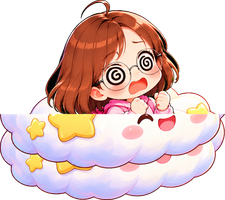
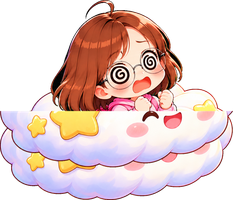
은유 v3 스카이훅 그림 1:1:1 비율로 다시 받은 것 적용, 시트 안 컷은 같은 배율로 맞춤, 기준 그림은 시트에서 제외

diff --git a/common/charv2.js b/common/charv2.js
@@ -14,8 +14,8 @@
   function load(look) {
     if (!LOOKS[look] || atlas[look]) return;
     const a = atlas[look] = { img: new Image(), f: null, ok: false };
-    fetch(`${base}common/chars/${look}.json?v=202610240817`).then((r) => r.json()).then((j) => {
-      a.f = j.frames; a.img.onload = () => { a.ok = true; }; a.img.src = `${base}common/chars/${look}.webp?v=202610240817`;
+    fetch(`${base}common/chars/${look}.json?v=202610240856`).then((r) => r.json()).then((j) => {
+      a.f = j.frames; a.img.onload = () => { a.ok = true; }; a.img.src = `${base}common/chars/${look}.webp?v=202610240856`;
     }).catch(() => { /* 그림이 없으면 기본 그림으로 */ });
   }
   const get = (look, name) => { const a = atlas[look]; return a && a.ok && a.f[name] ? [a, a.f[name]] : null; };

diff --git a/common/chars/looks.js b/common/chars/looks.js
@@ -7,7 +7,7 @@ window.CHAR_LOOKS = [
   { look: 'eungyeol', name: '은결 스타일', base: 'eungyeol', atlas: false, dress: true },
   { look: 'eunyu2', name: '은유 v2', base: 'eunyu', atlas: true, dress: false, isNew: true },
   { look: 'eungyeol2', name: '은결 v2', base: 'eungyeol', atlas: true, dress: false, isNew: true },
-  { look: 'eunyu3', name: '은유 v3', base: 'eunyu', atlas: true, dress: false, isNew: true },
   { look: 'eungyeol3', name: '은결 v3', base: 'eungyeol', atlas: true, dress: false, isNew: true },
+  { look: 'eunyu3', name: '은유 v3', base: 'eunyu', atlas: true, dress: false, isNew: true },
   // @@NEW_LOOKS@@ (이 줄 위에 새 캐릭터가 추가돼요)
 ];

diff --git a/skyhook/index.html b/skyhook/index.html
@@ -113,9 +113,9 @@
 
   <div id="rotateHint" class="hidden">가로로 돌리면 더 크게 볼 수 있어요 ↻</div>
 </div>
-<script src="../common/chars/looks.js?v=202610240817"></script>
+<script src="../common/chars/looks.js?v=202610240856"></script>
 <script src="../common/profile.js?v=20261023k"></script>
-<script src="../common/charv2.js?v=202610240817"></script>
+<script src="../common/charv2.js?v=202610240856"></script>
 <script src="../common/costume.js?v=20261023k"></script>
 <script src="../common/skins.js?v=20261023k"></script>
 <script src="game.js?v=20261024c"></script>

diff --git a/helicopter/index.html b/helicopter/index.html
@@ -91,9 +91,9 @@
 
   <div id="rotateHint" class="hidden">가로로 돌리면 더 크게 볼 수 있어요 ↻</div>
 </div>
-<script src="../common/chars/looks.js?v=202610240817"></script>
+<script src="../common/chars/looks.js?v=202610240856"></script>
 <script src="../common/profile.js?v=20261023k"></script>
-<script src="../common/charv2.js?v=202610240817"></script>
+<script src="../common/charv2.js?v=202610240856"></script>
 <script src="../common/costume.js?v=20261023k"></script>
 <script src="../common/skins.js?v=20261023k"></script>
 <script src="game.js?v=20261023k"></script>

diff --git a/stairs/index.html b/stairs/index.html
@@ -95,9 +95,9 @@
 
   <div id="rotateHint" class="hidden">📱 세로로 세워서 하면 더 크게 보여요</div>
 </div>
-<script src="../common/chars/looks.js?v=202610240817"></script>
+<script src="../common/chars/looks.js?v=202610240856"></script>
 <script src="../common/profile.js?v=20261023k"></script>
-<script src="../common/charv2.js?v=202610240817"></script>
+<script src="../common/charv2.js?v=202610240856"></script>
 <script src="../common/costume.js?v=20261023k"></script>
 <script src="../common/skins.js?v=20261023k"></script>
 <script src="game.js?v=20261024c"></script>

diff --git a/shisen/index.html b/shisen/index.html
@@ -88,10 +88,10 @@
 
   <div id="toast" class="toast hidden"></div>
 </div>
-<script src="../common/chars/looks.js?v=202610240817"></script>
+<script src="../common/chars/looks.js?v=202610240856"></script>
 <script src="../common/profile.js?v=20261023k"></script>
 <script src="../common/skins.js?v=20261023k"></script>
-<script src="../common/charv2.js?v=202610240817"></script>
+<script src="../common/charv2.js?v=202610240856"></script>
 <script src="../common/costume.js?v=20261023k"></script>
 <script src="game.js?v=20261024c"></script>
 </body>

diff --git a/downhill/index.html b/downhill/index.html
@@ -87,9 +87,9 @@
     </div>
   </div>
 </div>
-<script src="../common/chars/looks.js?v=202610240817"></script>
+<script src="../common/chars/looks.js?v=202610240856"></script>
 <script src="../common/profile.js?v=20261023k"></script>
-<script src="../common/charv2.js?v=202610240817"></script>
+<script src="../common/charv2.js?v=202610240856"></script>
 <script src="../common/costume.js?v=20261023k"></script>
 <script src="../common/skins.js?v=20261023k"></script>
 <script src="game.js?v=20261023b"></script>

diff --git a/index.html b/index.html
@@ -171,9 +171,9 @@
     <button id="tsStart" class="ts-start"><span class="ts-tri"></span>START</button>
   </div>
 
-<script src="common/chars/looks.js?v=202610240817"></script>
+<script src="common/chars/looks.js?v=202610240856"></script>
 <script src="common/profile.js?v=20261023r"></script>
-<script src="common/charv2.js?v=202610240817"></script>
+<script src="common/charv2.js?v=202610240856"></script>
 <script src="hub/hub.js?v=20261024c"></script>
 </body>
 </html>

diff --git a/shop/index.html b/shop/index.html
@@ -130,7 +130,7 @@
 </div>
 <div id="toast" class="toast hidden"></div>
 
-<script src="../common/chars/looks.js?v=202610240817"></script>
+<script src="../common/chars/looks.js?v=202610240856"></script>
 <script src="../common/profile.js?v=20261023k"></script>
 <script src="shop.js?v=20261023k"></script>
 </body>

diff --git a/tools/char_pipeline.py b/tools/char_pipeline.py
@@ -96,7 +96,7 @@ def place(im, s, src, dst, size):
 STAND_H = 393   # 서 있는 키 (512 캔버스) — 쌍둥이 키를 똑같이 맞춤
 FACE_REF = 190  # 얼굴·타일·탈것 크기 기준: 은결 v3 의 머리 폭(서 있는 키 393일 때). 머리카락이 넓은 캐릭터는 그만큼 크게
 
-def normalize(im, pose, size, scale_hint=None, std=210):
+def normalize(im, pose, size, scale_hint=None, std=210, sheet_s=None):
     """규격 캔버스에 맞추기: std = 이 캐릭터가 서 있는 키 393일 때의 머리 폭 (머리 폭 대신 키로 쌍둥이 크기를 맞춤)"""
     k = kind(pose); b = bbox(im); cx = (b[0] + b[2]) / 2
     hw = head_width(im); f = std / FACE_REF
@@ -112,9 +112,10 @@ def normalize(im, pose, size, scale_hint=None, std=210):
         s = 250 * f / hw; return place(im, s, (cx, b[3]), (512, 370), size), s
     s = std / hw
     if scale_hint and (k == 'lying' or abs(s / scale_hint - 1) > 0.35): s = scale_hint  # 누운 자세 등은 다른 포즈 크기로
+    if sheet_s: s = sheet_s  # 시트 그림: 같은 시트 컷은 모두 같은 배율
     if k == 'hang':
         # 팔 든 매달리기: 손끝~발 길이가 서 있는 키의 1.05배를 넘지 않게 (넘으면 줄 잡을 때 키가 커 보임)
-        s = min(s, STAND_H * 1.05 / (b[3] - b[1]))
+        s = min(s, STAND_H * 1.12 / (b[3] - b[1]))
         top = np.array(im)[b[1]:b[1] + 12, :, 3] > 60; xs = np.where(top.any(0))[0]
         hx = xs.mean() if len(xs) else cx
         return place(im, s, (hx, b[1]), (256, 40), size), s
@@ -216,9 +217,20 @@ def cmd_import(eid, cname, src, refdir=None):
     # 몸 그림 크기를 맞추려고 서 있는 포즈의 배율을 먼저 구함
     scales = []
     std = 210
+    # GPT는 한 시트 안의 컷을 같은 크기로 그림 → 시트마다 배율 하나 (머리 폭은 팔이 섞이면 커지니 시트에서 가장 작은 값)
+    sheet_of = {}
+    for one in src.split(','):
+        sp = os.path.join(one, 'sheet.json')
+        if os.path.isdir(one) and os.path.exists(sp): sheet_of.update(json.load(open(sp)))
+    sheet_hw = {}
+    for p, sid in sheet_of.items():
+        if p in files and kind(p) in ('ground', 'hang', 'lying'):
+            im_, _ = main_part(remove_bg(Image.open(files[p]))); sheet_hw.setdefault(sid, []).append(head_width(im_))
+    sheet_hw = {k: min(v) for k, v in sheet_hw.items()}
     if files.get('idle_0'):  # 서 있는 그림의 키가 STAND_H 가 되는 머리 폭 = 이 캐릭터의 기준 머리 폭
         i0, _ = main_part(remove_bg(Image.open(files['idle_0']))); b0 = bbox(i0)
-        std = head_width(i0) * STAND_H / (b0[3] - b0[1]); print(f"  기준 머리 폭 {std:.0f} (얼굴 배율 {std / FACE_REF:.2f})")
+        hw0 = sheet_hw.get(sheet_of.get('idle_0'), head_width(i0))
+        std = hw0 * STAND_H / (b0[3] - b0[1]); print(f"  기준 머리 폭 {std:.0f} (얼굴 배율 {std / FACE_REF:.2f})")
     order = sorted(M, key=lambda m: kind(m['pose']) == 'lying')
     for m in order:
         p = m['pose']; f = files.get(p)
@@ -233,7 +245,7 @@ def cmd_import(eid, cname, src, refdir=None):
         if bad:
             report.append(f'{m["no"]:>2}. {p}: ✕ ' + ' / '.join(bad + warn)); redo.append((m, bad + warn)); continue
         hint = float(np.median(scales)) if scales else None
-        fixed, s = normalize(im, p, (m['w'], m['h']), hint, std)
+        fixed, s = normalize(im, p, (m['w'], m['h']), hint, std, std / sheet_hw[sheet_of[p]] if sheet_of.get(p) in sheet_hw and kind(p) in ('ground', 'hang', 'lying') else None)
         if kind(p) == 'ground': scales.append(s)
         fixed.save(f'{base}/{eid}_base_{p}.png', optimize=True); done[p] = True
         report.append(f'{m["no"]:>2}. {p}: ○' + (' (확인 필요: ' + ' / '.join(warn) + ')' if warn else ''))
@@ -392,7 +404,8 @@ def shape_ok(sid, parts):
 
 def cmd_sheets(eid, cname, folder, refdir=None):
     """folder 안의 시트 그림(저장한 순서 = S01~S14)을 잘라 import 까지"""
-    imgs = sorted([f for f in glob.glob(f'{folder}/*') if re.search(r'\.(png|jpe?g|webp)$', f, re.I)], key=lambda f: (os.path.getmtime(f), f))
+    imgs = sorted([f for f in glob.glob(f'{folder}/*') if re.search(r'\.(png|jpe?g|webp)$', f, re.I)
+                   and not re.search(r'비율|기준|레퍼런스', os.path.basename(f))], key=lambda f: (os.path.getmtime(f), f))  # 기준 그림은 시트가 아님
     named = {}
     for f in imgs:  # 파일 이름에 S01 같은 번호가 있으면 그걸 씀
         mm = re.search(r'S(\d{2})', os.path.basename(f), re.I)
@@ -410,7 +423,7 @@ def cmd_sheets(eid, cname, folder, refdir=None):
     rest = rest[:len(SHEETS) - len(named)]
     redo_f = {sid: f'{folder}/{b}' for sid, b in redo_map.items() if os.path.exists(f'{folder}/{b}')}
     out = f'{ROOT}/character/{eid}_v4/cut'; os.makedirs(out, exist_ok=True)
-    log = []; check = []
+    log = []; check = []; sheet_of = {}
     for sid, title, names, rows in SHEETS:
         f = named.get(sid) or (rest.pop(0) if rest else None)
         f = redo_f.get(sid, f)  # 다시 받은 그림이 있으면 그걸 씀 (원래 순서 자리는 그대로 넘김)
@@ -418,6 +431,7 @@ def cmd_sheets(eid, cname, folder, refdir=None):
         parts, err = split_sheet(f, names, rows)  # 저장한 순서를 그대로 믿음 (다른 시트를 끌어오지 않음)
         if err: log.append(f'{sid} {title}: ✕ {err} ({os.path.basename(f)})'); continue
         for nm, im in parts.items(): im.save(f'{out}/{eid}_base_{nm}.png')
+        sheet_of.update({nm: sid for nm in parts})
         check.append((sid, title, f))
         log.append(f'{sid} {title}: ○ {len(parts)}장 잘라냄 ({os.path.basename(f)})')
     # 구름 앞부분: 구름 몸체 아래쪽 45%를 잘라 캐릭터 앞에 겹침
@@ -426,6 +440,7 @@ def cmd_sheets(eid, cname, folder, refdir=None):
         c = Image.open(cb).convert('RGBA'); a = np.array(c); b = bbox(c)
         a[:b[1] + int((b[3] - b[1]) * 0.55), :, 3] = 0; Image.fromarray(a).save(f'{out}/{eid}_base_ride_cloud_front.png')
     json.dump(split_sheet.touch, open(f'{out}/touch.json', 'w'))
+    json.dump(sheet_of, open(f'{out}/sheet.json', 'w'))  # 같은 시트 컷은 같은 배율로 맞추려고
     open(f'{ROOT}/character/{eid}_v4/시트자르기.txt', 'w', encoding='utf-8').write('\n'.join(log))
     # 시트 확인 그림: 묶음 이름 옆에 그 묶음으로 쓰인 그림 (순서가 맞는지 눈으로 확인)
     F = ImageFont.truetype('/System/Library/Fonts/AppleSDGothicNeo.ttc', 22)
